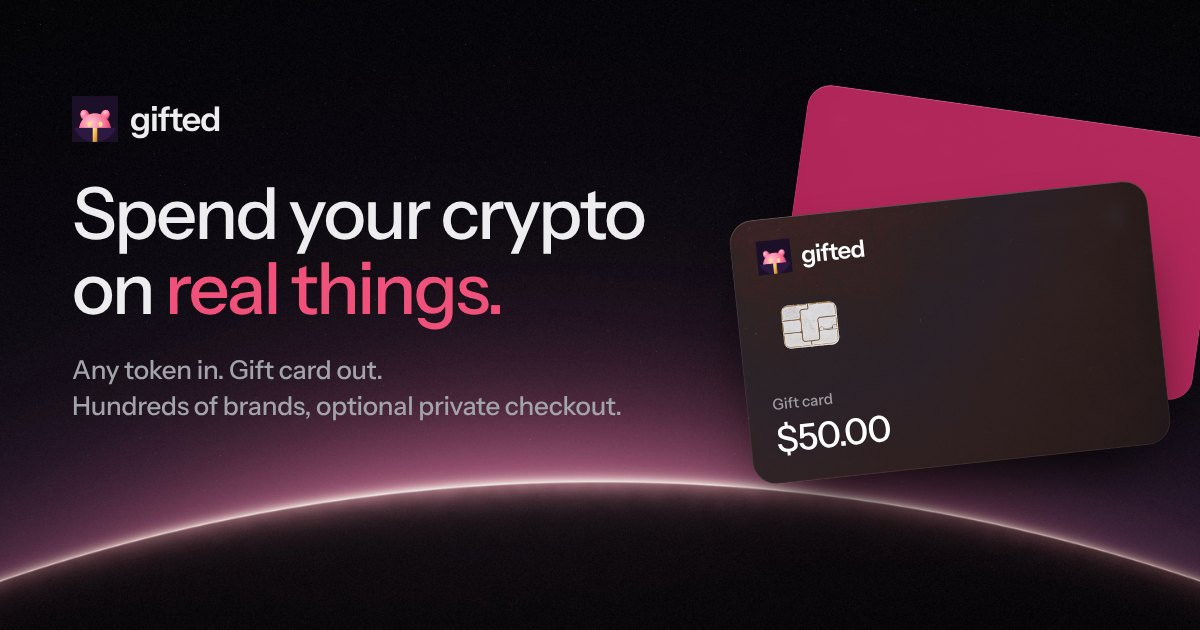
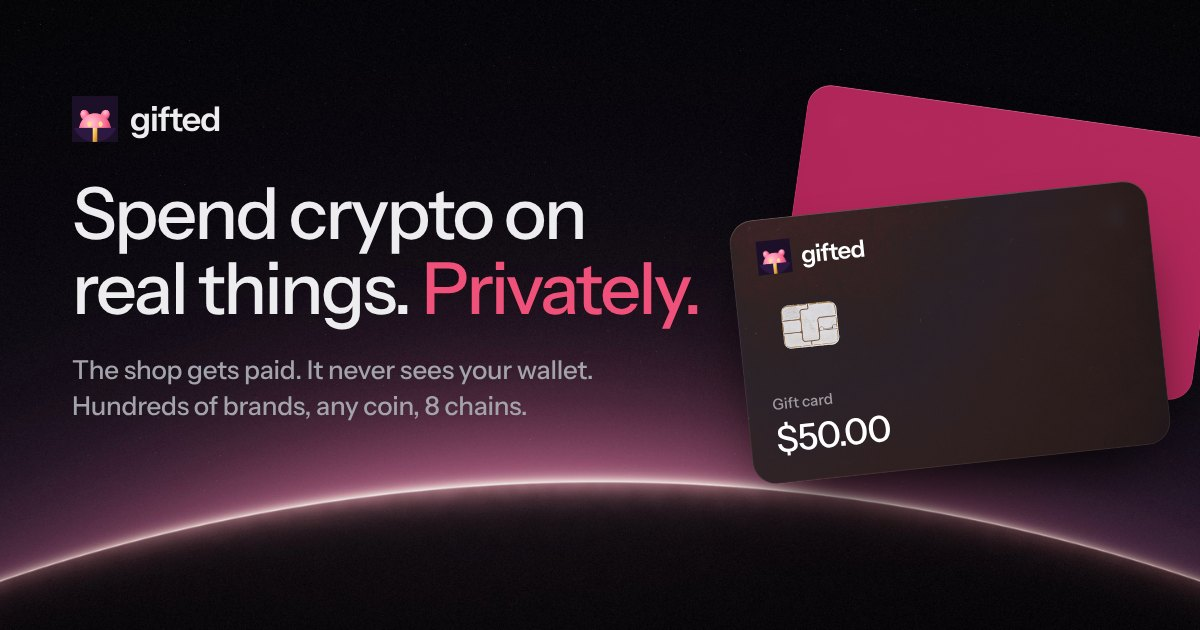
Privacy-first branding: Private is the default checkout, hero/copy/preview lead with privacy, 'what the shop sees' section, private flow path; backup refund address never prefilled from the paying wallet
Claude-Session: https://claude.ai/code/session_01DiUFHnz4Mf87bhj3bjCSuS

Changed region(s): [[0.0617, 0.3016, 0.5858, 0.5429], [0.0617, 0.573, 0.4933, 0.6032], [0.2467, 0.6333, 0.5242, 0.6635]]

diff --git a/app/page.js b/app/page.js
@@ -4,29 +4,32 @@ import Shop from '@/components/Shop';
 import LiveFeed from '@/components/LiveFeed';
 import CopyCA from '@/components/CopyCA';
 import HeroStage from '@/components/HeroStage';
-import { IconBolt, IconEyeOff, IconArrow } from '@/components/Icons';
+import { IconBolt, IconEyeOff, IconArrow, IconCheck } from '@/components/Icons';
 import { site } from '@/lib/site';
 
 const compare = [
-  ['You connect', 'Your Solana wallet', 'Nothing. You send to a one-time address'],
-  ['Pay from', 'Any token in your Solana wallet', 'Solana, Ethereum, Base, Arbitrum, BNB Chain, Bitcoin, Litecoin, Dogecoin'],
-  ['Who pays the shop', 'Your wallet, in one signed transaction', 'NEAR Intents, so the purchase isn’t tied to your wallet'],
-  ['On-chain trail', 'Public, and linked in the live feed', 'Your deposit is public on its own chain. The card purchase isn’t linked to it'],
-  ['Typical time', 'Under a minute', 'A few minutes'],
+  ['Who pays the shop', 'NEAR Intents, so the purchase isn’t tied to your wallet', 'Your wallet, in one signed transaction'],
+  ['You connect', 'Nothing. You send to a one-time address', 'Your Solana wallet'],
+  ['Pay from', 'Solana, Ethereum, Base, Arbitrum, BNB Chain, Bitcoin, Litecoin, Dogecoin', 'Any token in your Solana wallet'],
+  ['On-chain trail', 'Your deposit is public on its own chain. The card purchase isn’t linked to it', 'Public, and linked in the live feed'],
+  ['Typical time', 'A few minutes', 'Under a minute'],
 ];
 
 const path = [
-  ['Your token', 'SOL, BONK, WIF, or anything else in your wallet.'],
-  ['Jupiter', 'Swaps it into the exact USDC the card costs.'],
-  ['Bitrefill invoice', 'USDC lands on the invoice address. Never with us.'],
-  ['Delivery', 'Bitrefill issues the card, usually in under a minute.'],
-  ['Your code', 'Shown on screen and saved in this browser.'],
+  ['Pick a card', 'Hundreds of brands across 20 countries.'],
+  ['Pick any coin', 'From Solana, Ethereum, Base, Bitcoin and 4 more chains.'],
+  ['Send to a one-time address', 'No wallet connection. A fresh address for every order.'],
+  ['NEAR Intents pays the shop', 'The payment reaches the shop from the network, not from you.'],
+  ['Get your code', 'Shown on screen and saved in this browser.'],
 ];
 
+const sees = ['A paid order for a gift card', 'USDC from NEAR Intents', 'A backup refund address you choose'];
+const neverSees = ['The wallet you paid from', 'Your balances or what else you hold', 'Which coin or chain you paid from'];
+
 const faqs = [
+  ['What does Private actually hide?', 'The shop gets paid by NEAR Intents instead of your wallet, so the purchase isn’t linked to you. Your own deposit is still visible on its blockchain, and the card is tied to whatever account you redeem it on.'],
   ['What does it cost?', 'gifted charges no fee. You pay the card price from Bitrefill, plus the swap and a small network fee. You see the exact amount before you sign anything.'],
-  ['Do I need an account or ID?', 'No. Standard checkout uses your Solana wallet. Private checkout works from any wallet on 8 chains, without connecting.'],
-  ['What does Private actually hide?', 'The shop gets paid by NEAR Intents instead of your wallet, so the purchase isn’t linked to you. Your own deposit is still visible on its blockchain.'],
+  ['Do I need an account or ID?', 'No. Fast checkout uses your Solana wallet. Private checkout works from any wallet on 8 chains, without connecting.'],
   ['Where do I get my code?', 'On screen as soon as it’s delivered, usually in under a minute. It’s also saved in this browser under My cards. Treat it like cash.'],
   ['What if something goes wrong?', 'If the payment doesn’t go through, your money goes back to your wallet. If a card can’t be delivered, Bitrefill refunds you in USDC on Solana.'],
   ['Can I use it outside the US?', 'Yes. Pick your country next to the search box. Gift cards are country-specific, so buy one for where you’ll use it.'],
@@ -42,11 +45,11 @@ export default function Home() {
         <div style={{ display: 'flex', flexWrap: 'wrap', alignItems: 'center', justifyContent: 'space-between', gap: 32, marginBottom: 40 }}>
           <div style={{ flex: '999 1 560px', minWidth: 0, display: 'flex', flexDirection: 'column', gap: 20 }}>
             <h1 className="hero-title" style={{ margin: 0, font: '500 clamp(42px, 6vw, 78px)/1.02 var(--display)', letterSpacing: '-0.032em' }}>
-              <span className="line"><span className="line-inner">Spend your crypto</span></span>
-              <span className="line"><span className="line-inner">on <span style={{ color: 'var(--ribbon)' }}>real things.</span></span></span>
+              <span className="line"><span className="line-inner">Spend crypto on</span></span>
+              <span className="line"><span className="line-inner">real things. <span style={{ color: 'var(--ribbon)' }}>Privately.</span></span></span>
             </h1>
             <p className="muted rise" style={{ '--d': '380ms', margin: 0, fontSize: 19, lineHeight: 1.5, maxWidth: 540 }}>
-              Pick a gift card, pick any token, and pay. Turn on Private and the purchase isn’t tied to your wallet.
+              Gift cards for hundreds of brands, paid with any token from 8 chains. The shop gets paid, but never sees your wallet.
             </p>
           </div>
           <div className="hero-art rise" style={{ '--d': '200ms' }}>
@@ -58,13 +61,40 @@ export default function Home() {
         </div>
       </section>
 
+      {/* What the shop sees */}
+      <section id="privacy" className="wrap section">
+        <div data-reveal style={{ display: 'flex', flexDirection: 'column', gap: 16, marginBottom: 32, maxWidth: 680 }}>
+          <h2 className="h2">The shop gets paid. <span className="dim">It never sees your wallet.</span></h2>
+          <p className="muted" style={{ margin: 0, fontSize: 17, lineHeight: 1.6 }}>
+            Normally a crypto purchase draws a straight line from your wallet to the store. With private checkout, NEAR Intents pays the shop for you, so that line doesn’t exist.
+          </p>
+        </div>
+        <div className="grid-2" data-reveal>
+          <div className="card" style={{ padding: 26, display: 'flex', flexDirection: 'column', gap: 14 }}>
+            <span style={{ font: '500 17px var(--display)' }}>What the shop sees</span>
+            {sees.map((t) => (
+              <span key={t} style={{ display: 'flex', alignItems: 'center', gap: 10, fontSize: 15 }}><IconCheck width={18} height={18} style={{ color: 'var(--mint)' }} />{t}</span>
+            ))}
+          </div>
+          <div className="card" style={{ padding: 26, display: 'flex', flexDirection: 'column', gap: 14, borderColor: 'rgba(240,81,122,.35)', background: 'linear-gradient(180deg, rgba(240,81,122,.07), rgba(240,81,122,0) 60%), var(--surface)' }}>
+            <span style={{ font: '500 17px var(--display)', color: 'var(--ribbon)' }}>What it never sees</span>
+            {neverSees.map((t) => (
+              <span key={t} style={{ display: 'flex', alignItems: 'center', gap: 10, fontSize: 15 }}><IconEyeOff width={18} height={18} style={{ color: 'var(--ribbon)' }} />{t}</span>
+            ))}
+          </div>
+        </div>
+        <p className="muted" style={{ margin: '14px 0 0', fontSize: 14, lineHeight: 1.6 }}>
+          Your own deposit is still public on its chain, like any transfer. <Link href="/docs#private">How private checkout works</Link>
+        </p>
+      </section>
+
       {/* Live orders */}
       <section id="live" className="wrap section" style={{ scrollMarginTop: 70 }}>
         <div style={{ display: 'flex', flexWrap: 'wrap', gap: 40, alignItems: 'flex-start' }}>
           <div data-reveal style={{ flex: '1 1 340px', display: 'flex', flexDirection: 'column', gap: 16, maxWidth: 470 }}>
             <h2 className="h2">Real crypto, <span className="dim">real cards.</span></h2>
             <p className="muted" style={{ margin: 0, lineHeight: 1.6, fontSize: 16 }}>
-              Each order shows up here once Bitrefill delivers it. Standard orders link to their transaction on Solscan. Private orders show the card only.
+              Each order shows up here once Bitrefill delivers it. Private orders show the card and a rough time, nothing else. Fast checkout orders link to their transaction.
             </p>
           </div>
           <div data-reveal style={{ '--d': '120ms', flex: '999 1 440px', minWidth: 0 }}><LiveFeed limit={6} /></div>
@@ -74,15 +104,15 @@ export default function Home() {
       {/* Standard vs Private */}
       <section className="wrap section">
         <div data-reveal style={{ display: 'flex', flexDirection: 'column', gap: 16, marginBottom: 32, maxWidth: 640 }}>
-          <h2 className="h2">Fast, or <span className="dim">off the record.</span></h2>
+          <h2 className="h2">Private by default. <span className="dim">Fast if you want.</span></h2>
         </div>
         <div className="card table-scroll" data-reveal style={{ padding: '22px 8px 6px' }}>
           <table className="compare">
             <thead>
               <tr>
                 <th scope="col"><span className="sr-only">Detail</span></th>
-                <th scope="col"><span style={{ display: 'inline-flex', alignItems: 'center', gap: 8 }}><IconBolt width={17} height={17} /> Standard</span></th>
                 <th scope="col"><span style={{ display: 'inline-flex', alignItems: 'center', gap: 8, color: 'var(--ribbon)' }}><IconEyeOff width={17} height={17} /> Private</span></th>
+                <th scope="col"><span style={{ display: 'inline-flex', alignItems: 'center', gap: 8 }}><IconBolt width={17} height={17} /> Fast</span></th>
               </tr>
             </thead>
             <tbody>
@@ -92,16 +122,13 @@ export default function Home() {
             </tbody>
           </table>
         </div>
-        <p className="muted" style={{ margin: '14px 0 0', fontSize: 14 }}>
-          <Link href="/docs#private">How private checkout works</Link>
-        </p>
       </section>
 
       {/* Order path */}
       <section className="wrap section">
         <div data-reveal style={{ display: 'flex', flexWrap: 'wrap', alignItems: 'flex-end', justifyContent: 'space-between', gap: 16, marginBottom: 32 }}>
           <div style={{ display: 'flex', flexDirection: 'column', gap: 16, maxWidth: 640 }}>
-            <h2 className="h2">Wallet to code, <span className="dim">in one pass.</span></h2>
+            <h2 className="h2">Private, <span className="dim">start to finish.</span></h2>
           </div>
           <Link href="/docs" className="btn btn-ghost">Read the docs <IconArrow width={18} height={18} /></Link>
         </div>

diff --git a/app/docs/page.js b/app/docs/page.js
@@ -5,7 +5,7 @@ export const metadata = { title: 'Docs', description: 'How gifted works: standar
 const toc = [
   ['overview', 'Overview'],
   ['quick-start', 'Quick start'],
-  ['standard', 'Standard checkout'],
+  ['standard', 'Fast checkout'],
   ['private', 'Private checkout'],
   ['fees', 'Fees'],
   ['supported', 'Supported tokens & chains'],
@@ -48,12 +48,12 @@ export default function Docs() {
           <ol>
             <li>Open the <Link href="/#shop">shop</Link> and pick a brand and amount.</li>
             <li>Choose a token. You’ll see a live estimate before connecting anything.</li>
-            <li>Choose <strong>Standard</strong> (connect a Solana wallet and sign once) or <strong>Private</strong> (send to a one-time deposit address from any wallet).</li>
+            <li>Choose <strong>Fast</strong> (connect a Solana wallet and sign once) or <strong>Private</strong> (send to a one-time deposit address from any wallet).</li>
             <li>Your code appears on screen when the card is delivered, and it’s saved under <Link href="/cards">My cards</Link>.</li>
           </ol>
 
-          <h2 id="standard">Standard checkout</h2>
-          <p>Standard checkout is one Solana transaction that does two things at once: swaps your token through Jupiter and sends the exact USDC amount straight to the gift card order.</p>
+          <h2 id="standard">Fast checkout</h2>
+          <p>Fast checkout is one Solana transaction that does two things at once: swaps your token through Jupiter and sends the exact USDC amount straight to the gift card order.</p>
           <ul>
             <li>Pay with any token in your wallet that Jupiter can route.</li>
             <li>The exact price, including swap costs and price impact, is shown before you sign. The quote shows the most you can pay.</li>
@@ -92,7 +92,7 @@ export default function Docs() {
           </div>
 
           <h2 id="supported">Supported tokens & chains</h2>
-          <p><strong>Standard:</strong> any Solana token with a Jupiter route, including SOL, USDC and most memecoins.</p>
+          <p><strong>Fast:</strong> any Solana token with a Jupiter route, including SOL, USDC and most memecoins.</p>
           <p><strong>Private:</strong> supported assets on Solana, Ethereum, Base, Arbitrum, BNB Chain, Bitcoin, Litecoin and Dogecoin. The list updates live from NEAR Intents.</p>
           <p><strong>Gift cards:</strong> thousands of brands. Each card shows the country it works in; check it before you buy.</p>
 
@@ -108,14 +108,14 @@ export default function Docs() {
           <p>Every card you buy is saved in your browser under <Link href="/cards">My cards</Link>, where you can reveal the code again. Codes aren’t stored on gifted’s servers, so clearing your browser data removes them. Treat codes like cash.</p>
 
           <h2 id="live">Live orders</h2>
-          <p>The live feed on the homepage lists real, delivered orders. Standard orders link to their transaction on Solscan. Private orders show only the card and a rounded time, never a wallet, token or transaction.</p>
+          <p>The live feed on the homepage lists real, delivered orders. Fast checkout orders link to their transaction on Solscan. Private orders show only the card and a rounded time, never a wallet, token or transaction.</p>
 
           <h2 id="token">The $GIFTED token</h2>
           <p>$GIFTED is the meme coin behind the shop, launched on pump.fun. It has no promised value, returns or rights, and you don’t need it to use gifted. The contract address is always in the site header.</p>
 
           <h2 id="faq">FAQ</h2>
           <h3>Do I need to connect a wallet?</h3>
-          <p>Not to browse or see prices. Standard checkout needs a Solana wallet to sign. Private checkout works from any wallet by sending to the deposit address.</p>
+          <p>Not to browse or see prices. Fast checkout needs a Solana wallet to sign. Private checkout works from any wallet by sending to the deposit address.</p>
           <h3>How long does delivery take?</h3>
           <p>Usually under a minute after your payment confirms. Private orders take a little longer while the network settles.</p>
           <h3>What if something goes wrong?</h3>

diff --git a/components/PrivateCheckout.js b/components/PrivateCheckout.js
@@ -72,12 +72,12 @@ export default function PrivateCheckout({ product, pkgId, customValue, faceValue
     fetch('/api/private/tokens').then((r) => r.json()).then((d) => setTokens(d.tokens || [])).catch(() => setError('Private checkout is unavailable right now.'));
   }, []);
 
-  // Prefill refund addresses from a connected Solana wallet (you can replace them with fresh ones).
+  // Prefill only the swap refund address. The backup address goes to the shop, so it is never
+  // prefilled from the connected wallet: that would show the shop your wallet.
   useEffect(() => {
     if (!publicKey) return;
     const a = publicKey.toBase58();
     if (chain === 'sol' && !refundTo) setRefundTo(a);
-    if (!shopRefund) setShopRefund(a);
   }, [publicKey, chain]); // eslint-disable-line react-hooks/exhaustive-deps
 
   const chainTokens = useMemo(() => tokens.filter((t) => t.blockchain === chain).sort((a, b) => a.symbol.localeCompare(b.symbol)), [tokens, chain]);
@@ -87,7 +87,8 @@ export default function PrivateCheckout({ product, pkgId, customValue, faceValue
 
   const token = chainTokens.find((t) => t.assetId === assetId) || null;
   const chainInfo = getChain(chain);
-  const cardRefund = chain === 'sol' ? refundTo : shopRefund;
+  const cardRefund = shopRefund;
+  const sameWallet = cardRefund.trim() && (cardRefund.trim() === refundTo.trim() || cardRefund.trim() === publicKey?.toBase58());
   const ready = product && faceValue && token && isValidAddress(chain, refundTo) && isValidAddress('sol', cardRefund) && agree && phase === 'idle';
 
   async function start() {
@@ -191,13 +192,12 @@ export default function PrivateCheckout({ product, pkgId, customValue, faceValue
             {chain === 'sol' ? 'If anything goes wrong, your money comes back here.' : 'If the payment doesn’t go through, your money comes back here.'} Use your own wallet, not an exchange.
           </span>
         </label>
-        {chain !== 'sol' && (
-          <label style={{ display: 'flex', flexDirection: 'column', gap: 6 }}>
-            <span className="label">Your Solana wallet address</span>
-            <input className="input" value={shopRefund} onChange={(e) => setShopRefund(e.target.value)} placeholder="Paste a Solana address" disabled={phase !== 'idle'} spellCheck={false} />
-            <span className="muted" style={{ fontSize: 13, lineHeight: 1.45 }}>If the card can’t be delivered, you get a refund here in USDC.</span>
-          </label>
-        )}
+        <label style={{ display: 'flex', flexDirection: 'column', gap: 6 }}>
+          <span className="label">Backup Solana address</span>
+          <input className="input" value={shopRefund} onChange={(e) => setShopRefund(e.target.value)} placeholder="A fresh Solana wallet" disabled={phase !== 'idle'} spellCheck={false} />
+          <span className="muted" style={{ fontSize: 13, lineHeight: 1.45 }}>Only used if the card can’t be delivered (refund in USDC). The shop sees this one, so use a fresh wallet, not the one you pay from.</span>
+          {sameWallet && <span className="notice notice-warn" style={{ fontSize: 13 }}>That’s the wallet you’re paying from. It works, but the shop would see it. A fresh wallet keeps you private.</span>}
+        </label>
       </div>
 
       <div className="card" style={{ padding: 18, display: 'flex', flexDirection: 'column', gap: 12 }}>

diff --git a/components/Shop.js b/components/Shop.js
@@ -86,7 +86,7 @@ export default function Shop() {
   const { publicKey, sendTransaction, connected } = useWallet();
   const { setVisible } = useWalletModal();
 
-  const [mode, setMode] = useState('standard');
+  const [mode, setMode] = useState('private');
   const [query, setQuery] = useState('');
   const [cat, setCat] = useState('Popular');
   const [country, setCountry] = useState('US');
@@ -476,13 +476,13 @@ export default function Shop() {
     <div style={{ display: 'flex', flexDirection: 'column', gap: 14 }}>
       <div style={{ display: 'flex', alignItems: 'center', justifyContent: 'space-between', gap: 14, flexWrap: 'wrap' }}>
         <div className="mode-switch" role="group" aria-label="Checkout mode" style={{ width: 'min(100%, 360px)' }}>
-          <button type="button" aria-pressed={mode === 'standard'} onClick={() => { setMode('standard'); resetCheckout(); }}><IconBolt width={17} height={17} /> Standard</button>
           <button type="button" aria-pressed={mode === 'private'} onClick={() => { setMode('private'); resetCheckout(); }}><IconEyeOff width={17} height={17} /> Private</button>
+          <button type="button" aria-pressed={mode === 'standard'} onClick={() => { setMode('standard'); resetCheckout(); }}><IconBolt width={17} height={17} /> Fast</button>
         </div>
         <span className="muted" style={{ fontSize: 14, flex: '1 1 280px', textAlign: 'right' }}>
           {mode === 'standard'
-            ? 'One signature from your Solana wallet. Fastest.'
-            : 'Paid through NEAR Intents, so the purchase isn’t linked to your wallet. Pay from 8 chains.'}
+            ? 'One signature from your Solana wallet. Fastest, but the payment comes from your wallet.'
+            : 'The shop never sees your wallet. Pay from any of 8 chains, no wallet connection needed.'}
         </span>
       </div>
       <div className="console">

diff --git a/components/Footer.js b/components/Footer.js
@@ -25,7 +25,7 @@ export default function Footer() {
             <span style={{ font: '600 20px var(--display)', letterSpacing: '-0.04em' }}>gifted</span>
           </div>
           <p className="muted" style={{ margin: 0, fontSize: 13, lineHeight: 1.65 }}>
-            $GIFTED is a meme coin with no promised value or returns. The shop is free to use, and holding $GIFTED isn’t required.
+            gifted lets you buy gift cards with crypto without tying the purchase to your wallet. $GIFTED is a meme coin with no promised value or returns. The shop is free to use, and holding $GIFTED isn’t required.
             Gift cards are fulfilled through Bitrefill. gifted never holds your funds: you approve every payment from your own wallet.
           </p>
           <p className="muted" style={{ margin: 0, fontSize: 12 }}>Card photo by <a href="https://unsplash.com/photos/black-business-credit-card-ahjzVINkuCs" target="_blank" rel="noopener noreferrer">Unsplash</a>, retouched.</p>

diff --git a/lib/site.js b/lib/site.js
@@ -2,8 +2,8 @@
 export const site = {
   name: 'GIFTED',
   ticker: '$GIFTED',
-  tagline: 'Your crypto, gift wrapped.',
-  description: 'Turn any token into a gift card for hundreds of brands. Pay from Solana, Ethereum, Bitcoin and more, with an optional private checkout.',
+  tagline: 'Spend crypto privately.',
+  description: 'Buy gift cards for hundreds of brands with any token, without the purchase being tied to your wallet. Pay from Solana, Ethereum, Bitcoin and more.',
   url: process.env.NEXT_PUBLIC_SITE_URL || (process.env.VERCEL_PROJECT_PRODUCTION_URL ? `https://${process.env.VERCEL_PROJECT_PRODUCTION_URL}` : 'https://giftedswaps.com'),
   ca: process.env.NEXT_PUBLIC_GIFTED_CA || '',
   links: {
